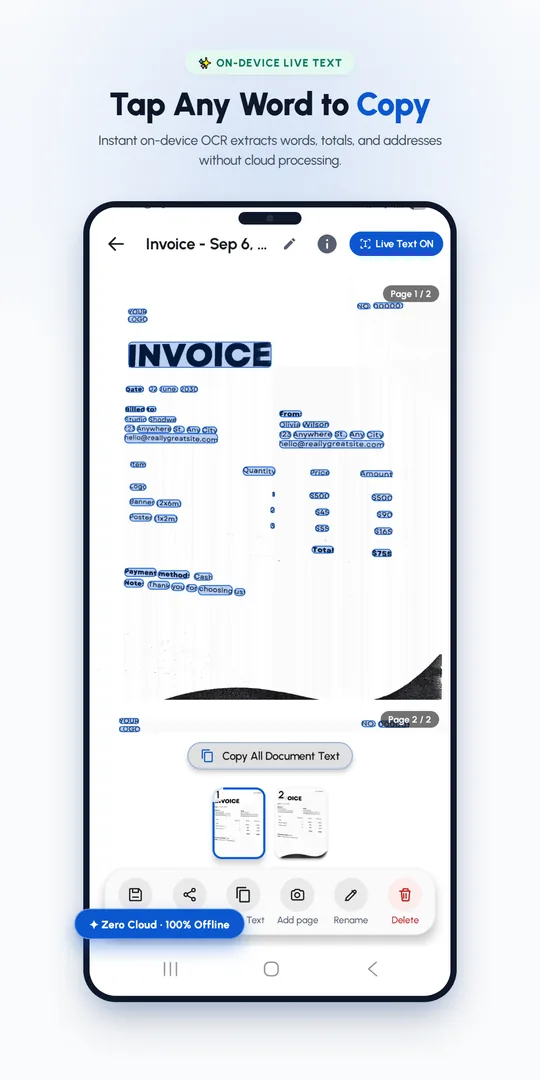
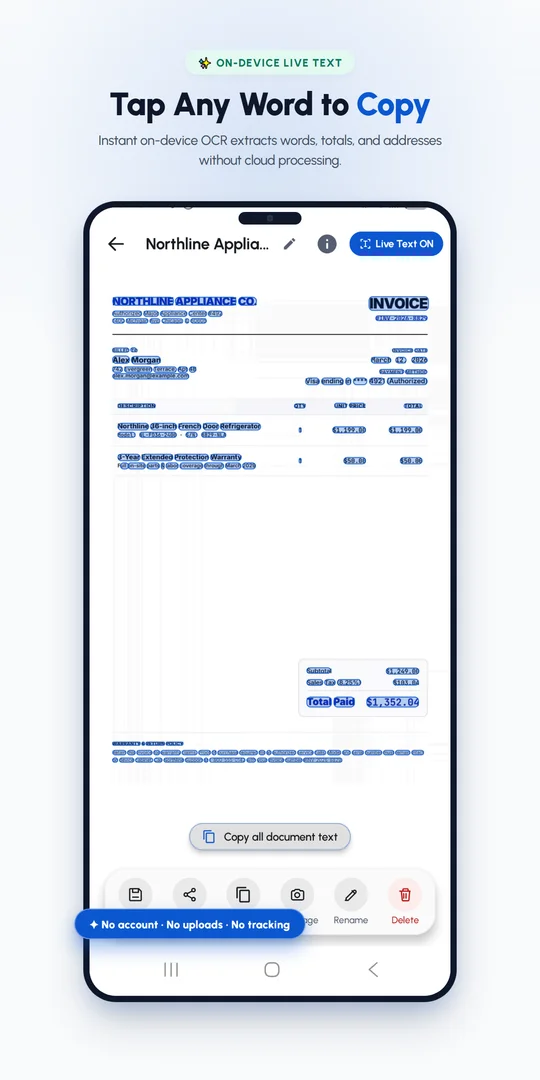
Sync official Play Store screenshots with watermark protection and search results

diff --git a/docket/index.html b/docket/index.html
@@ -68,7 +68,8 @@
           "https://apps.rapidops.io/docket/screenshots/04_smart_organization.png",
           "https://apps.rapidops.io/docket/screenshots/05_encrypted_backup.png",
           "https://apps.rapidops.io/docket/screenshots/06_lifetime_pricing.png",
-          "https://apps.rapidops.io/docket/screenshots/07_pdf_export.png"
+          "https://apps.rapidops.io/docket/screenshots/07_document_watermark.png",
+          "https://apps.rapidops.io/docket/screenshots/08_sign_document.png"
         ],
         "softwareVersion": "1.1.0",
         "fileSize": "25MB",
@@ -959,11 +960,11 @@ body {
         <!-- Slide 3 -->
         <a href="screenshots/03_fulltext_search.png?v=1.1.0" target="_blank" class="group block bg-white dark:bg-[#121626] rounded-2xl p-2.5 border border-slate-200/80 dark:border-white/10 hover:border-brand/50 shadow-card-light dark:shadow-none transition-all transform hover:-translate-y-1">
           <div class="overflow-hidden rounded-xl bg-slate-900 aspect-[1/2] relative">
-            <img src="screenshots/03_fulltext_search_thumb.webp?v=1.1.0" decoding="async" alt="Docket Instant In-Document Full-Text Search" width="1080" height="2160" loading="lazy" class="w-full h-full object-cover group-hover:scale-105 transition-transform duration-300" />
+            <img src="screenshots/03_fulltext_search_thumb.webp?v=1.1.0" decoding="async" alt="Docket Instant In-Document Full-Text Search and Live Results" width="1080" height="2160" loading="lazy" class="w-full h-full object-cover group-hover:scale-105 transition-transform duration-300" />
           </div>
           <div class="mt-2 px-1 text-center">
-            <div class="text-[11px] font-black text-slate-900 dark:text-white truncate">#3 Fast Search</div>
-            <div class="text-[9px] font-semibold text-brand">In-Doc OCR Match</div>
+            <div class="text-[11px] font-black text-slate-900 dark:text-white truncate">#3 Search & Results</div>
+            <div class="text-[9px] font-semibold text-brand">Live Query Matches</div>
           </div>
         </a>
 
@@ -1001,13 +1002,13 @@ body {
         </a>
 
         <!-- Slide 7 -->
-        <a href="screenshots/07_pdf_export.png?v=1.1.0" target="_blank" class="group block bg-white dark:bg-[#121626] rounded-2xl p-2.5 border border-slate-200/80 dark:border-white/10 hover:border-brand/50 shadow-card-light dark:shadow-none transition-all transform hover:-translate-y-1">
+        <a href="screenshots/07_document_watermark.png?v=1.1.0" target="_blank" class="group block bg-white dark:bg-[#121626] rounded-2xl p-2.5 border border-slate-200/80 dark:border-white/10 hover:border-brand/50 shadow-card-light dark:shadow-none transition-all transform hover:-translate-y-1">
           <div class="overflow-hidden rounded-xl bg-slate-900 aspect-[1/2] relative">
-            <img src="screenshots/07_pdf_export_thumb.webp?v=1.1.0" decoding="async" alt="Docket Searchable PDF Export Sheet" width="1080" height="2160" loading="lazy" class="w-full h-full object-cover group-hover:scale-105 transition-transform duration-300" />
+            <img src="screenshots/07_document_watermark_thumb.webp?v=1.1.0" decoding="async" alt="Docket Document Watermark Protection" width="1080" height="2160" loading="lazy" class="w-full h-full object-cover group-hover:scale-105 transition-transform duration-300" />
           </div>
           <div class="mt-2 px-1 text-center">
-            <div class="text-[11px] font-black text-slate-900 dark:text-white truncate">#7 PDF Export</div>
-            <div class="text-[9px] font-semibold text-brand">Searchable Layer</div>
+            <div class="text-[11px] font-black text-slate-900 dark:text-white truncate">#7 Watermark</div>
+            <div class="text-[9px] font-semibold text-purple-400">Confidential Stamp</div>
           </div>
         </a>
 

diff --git a/index.html b/index.html
@@ -398,11 +398,11 @@ body { font-family: 'Urbanist', sans-serif; }
         <!-- Slide 3 -->
         <a href="docket/screenshots/03_fulltext_search.png?v=1.1.0" target="_blank" class="group block bg-white dark:bg-[#151924] rounded-2xl p-2.5 border border-slate-200 dark:border-white/10 hover:border-brand/50 shadow-sm transition-all transform hover:-translate-y-1">
           <div class="overflow-hidden rounded-xl bg-slate-900 aspect-[1/2] relative">
-            <img src="docket/screenshots/03_fulltext_search_thumb.webp?v=1.1.0" decoding="async" alt="Docket Instant In-Document Full-Text Search" width="1080" height="2160" loading="lazy" class="w-full h-full object-cover group-hover:scale-105 transition-transform duration-300" />
+            <img src="docket/screenshots/03_fulltext_search_thumb.webp?v=1.1.0" decoding="async" alt="Docket In-Document Full-Text Search and Instant Results" width="1080" height="2160" loading="lazy" class="w-full h-full object-cover group-hover:scale-105 transition-transform duration-300" />
           </div>
           <div class="mt-2 px-1 text-center">
-            <div class="text-[11px] font-black text-slate-900 dark:text-white truncate">#3 Fast Search</div>
-            <div class="text-[9px] font-semibold text-brand">Keyword Match</div>
+            <div class="text-[11px] font-black text-slate-900 dark:text-white truncate">#3 Search & Results</div>
+            <div class="text-[9px] font-semibold text-brand">Live Query Matches</div>
           </div>
         </a>
 
@@ -440,13 +440,13 @@ body { font-family: 'Urbanist', sans-serif; }
         </a>
 
         <!-- Slide 7 -->
-        <a href="docket/screenshots/07_pdf_export.png?v=1.1.0" target="_blank" class="group block bg-white dark:bg-[#151924] rounded-2xl p-2.5 border border-slate-200 dark:border-white/10 hover:border-brand/50 shadow-sm transition-all transform hover:-translate-y-1">
+        <a href="docket/screenshots/07_document_watermark.png?v=1.1.0" target="_blank" class="group block bg-white dark:bg-[#151924] rounded-2xl p-2.5 border border-slate-200 dark:border-white/10 hover:border-brand/50 shadow-sm transition-all transform hover:-translate-y-1">
           <div class="overflow-hidden rounded-xl bg-slate-900 aspect-[1/2] relative">
-            <img src="docket/screenshots/07_pdf_export_thumb.webp?v=1.1.0" decoding="async" alt="Docket Searchable PDF Export Sheet" width="1080" height="2160" loading="lazy" class="w-full h-full object-cover group-hover:scale-105 transition-transform duration-300" />
+            <img src="docket/screenshots/07_document_watermark_thumb.webp?v=1.1.0" decoding="async" alt="Docket Document Watermark Protection" width="1080" height="2160" loading="lazy" class="w-full h-full object-cover group-hover:scale-105 transition-transform duration-300" />
           </div>
           <div class="mt-2 px-1 text-center">
-            <div class="text-[11px] font-black text-slate-900 dark:text-white truncate">#7 PDF Export</div>
-            <div class="text-[9px] font-semibold text-brand">Searchable Layer</div>
+            <div class="text-[11px] font-black text-slate-900 dark:text-white truncate">#7 Watermark</div>
+            <div class="text-[9px] font-semibold text-brand">Confidential Stamp</div>
           </div>
         </a>
 

diff --git a/docket/screenshots/index.html b/docket/screenshots/index.html
@@ -72,11 +72,11 @@
       <!-- Slide 3 -->
       <div class="bg-[#1E293B] rounded-3xl p-4 border border-white/10 flex flex-col justify-between hover:border-[#0B57D0]/50 transition-all">
         <div class="mb-3">
-          <span class="text-xs font-bold text-[#C084FC]">#3 · INSTANT SEARCH</span>
-          <h3 class="text-sm font-bold text-white truncate">Find Anything Instantly</h3>
+          <span class="text-xs font-bold text-[#C084FC]">#3 · SEARCH & RESULTS</span>
+          <h3 class="text-sm font-bold text-white truncate">Search & Find Instantly</h3>
         </div>
         <a href="03_fulltext_search.png?v=1.1.0" target="_blank" class="block group overflow-hidden rounded-2xl border border-white/10 bg-slate-900">
-          <img src="03_fulltext_search.png?v=1.1.0" alt="Find Anything Instantly" class="w-full h-auto group-hover:scale-105 transition-transform duration-300" />
+          <img src="03_fulltext_search.png?v=1.1.0" alt="Search & Find Instantly" class="w-full h-auto group-hover:scale-105 transition-transform duration-300" />
         </a>
         <a href="03_fulltext_search.png?v=1.1.0" download class="mt-3 block w-full py-2.5 rounded-xl bg-[#0B57D0] hover:bg-[#0842A0] text-center text-xs font-bold transition-colors">
           Download 1080×2160
@@ -128,13 +128,13 @@
       <!-- Slide 7 -->
       <div class="bg-[#1E293B] rounded-3xl p-4 border border-white/10 flex flex-col justify-between hover:border-[#0B57D0]/50 transition-all">
         <div class="mb-3">
-          <span class="text-xs font-bold text-[#60A5FA]">#7 · SHARING & EXPORT</span>
-          <h3 class="text-sm font-bold text-white truncate">Export Searchable PDFs</h3>
+          <span class="text-xs font-bold text-[#A78BFA]">#7 · WATERMARK PROTECTION</span>
+          <h3 class="text-sm font-bold text-white truncate">Watermark Every Page</h3>
         </div>
-        <a href="07_pdf_export.png?v=1.1.0" target="_blank" class="block group overflow-hidden rounded-2xl border border-white/10 bg-slate-900">
-          <img src="07_pdf_export.png?v=1.1.0" alt="Export Searchable PDFs" class="w-full h-auto group-hover:scale-105 transition-transform duration-300" />
+        <a href="07_document_watermark.png?v=1.1.0" target="_blank" class="block group overflow-hidden rounded-2xl border border-white/10 bg-slate-900">
+          <img src="07_document_watermark.png?v=1.1.0" alt="Watermark Every Page" class="w-full h-auto group-hover:scale-105 transition-transform duration-300" />
         </a>
-        <a href="07_pdf_export.png?v=1.1.0" download class="mt-3 block w-full py-2.5 rounded-xl bg-[#0B57D0] hover:bg-[#0842A0] text-center text-xs font-bold transition-colors">
+        <a href="07_document_watermark.png?v=1.1.0" download class="mt-3 block w-full py-2.5 rounded-xl bg-[#0B57D0] hover:bg-[#0842A0] text-center text-xs font-bold transition-colors">
           Download 1080×2160
         </a>
       </div>

diff --git a/docket/screenshots/07_document_watermark.html b/docket/screenshots/07_document_watermark.html
@@ -154,11 +154,11 @@ body {
   <div class="bg-radial"></div>
 
   <div class="header-container">
-    <div class="badge" style="background: #E8DEF8; color: #4A4458;">
-      🔍 SEARCH & INSTANT RESULTS
+    <div class="badge" style="background: #EDE9FE; color: #5B21B6;">
+      🛡 WATERMARK PROTECTION
     </div>
-    <h1 class="headline">Search & Find <span class='accent'>Instantly</span></h1>
-    <p class="subhead">Full-text indexing searches through every word inside your documents with live highlighted OCR results.</p>
+    <h1 class="headline">Watermark Every <span class='accent'>Page</span></h1>
+    <p class="subhead">Stamp CONFIDENTIAL, DRAFT, or custom text across your documents and exports — watermarking is part of Premium.</p>
   </div>
 
   <div class="phone-wrapper">
@@ -167,11 +167,11 @@ body {
         <div class="camera-hole"></div>
       </div>
       <div class="phone-screen">
-        <img src="file:///E:/Docket/device_screenshots/real_docket_search_clean.png" class="screen-capture" style="margin-top: -40px;" />
+        <img src="file:///E:/Docket/device_screenshots/real_docket_watermark.png" class="screen-capture" style="margin-top: -40px;" />
       </div>
     </div>
-    <div class="floating-pill" style="bottom: 700px; right: -20px;">
-      ✦ Search & Highlighted Matches
+    <div class="floating-pill" style="bottom: 700px; left: -25px;">
+      ✦ Diagonal Watermark Stamp
     </div>
   </div>
 </body>

diff --git a/docket/screenshots/generate_real_playstore_screenshots.py b/docket/screenshots/generate_real_playstore_screenshots.py
@@ -12,11 +12,16 @@ SLIDES = [
         "badge_color": "#D3E3FD",
         "badge_text": "#041E49",
         "headline": "Scan Paper in <span class='accent'>Seconds</span>",
-        "subhead": "Auto-detects edges, corrects perspective, and eliminates harsh shadows in real-time.",
+        # "in real-time" was wrong: edge detection is live in the viewfinder, but ML Kit's
+        # shadow/stain cleaning pass (SCANNER_MODE_FULL) runs after capture, not on the preview.
+        "subhead": "Auto-detects edges, corrects perspective, and clears harsh shadows on every capture.",
+        # A real viewfinder frame with a document under the lens and the edge-detection quad
+        # locked on. Captured by sampling until the preview surface actually composites into
+        # screencap — it comes back black most attempts.
         "image": os.path.join(DEVICE_DIR, "real_docket_camera_scanner.png"),
         "img_offset_y": "0px",
         "callout_text": "✦ On-Device Edge Detection",
-        "callout_pos": "bottom: 120px; right: -30px;"
+        "callout_pos": "bottom: 780px; right: -30px;"
     },
     {
         "id": "02_livetext_ocr",
@@ -27,20 +32,24 @@ SLIDES = [
         "subhead": "Instant on-device OCR extracts words, totals, and addresses without cloud processing.",
         "image": os.path.join(DEVICE_DIR, "real_docket_livetext.png"),
         "img_offset_y": "-40px",
-        "callout_text": "✦ Zero Cloud · 100% Offline",
+        # Was "Zero Cloud · 100% Offline". Not defensible: the merged manifest carries INTERNET
+        # via ML Kit and Play Billing, the extra OCR script packs are ~25MB downloads, and
+        # billing needs the network. This is the app's own account_tagline, which is both true
+        # and the line the in-app privacy page is already written to support.
+        "callout_text": "✦ No account · No uploads · No tracking",
         "callout_pos": "bottom: 140px; left: -20px;"
     },
     {
         "id": "03_fulltext_search",
-        "badge": "🔍 BLISTERING-FAST SEARCH",
+        "badge": "🔍 SEARCH & INSTANT RESULTS",
         "badge_color": "#E8DEF8",
         "badge_text": "#4A4458",
-        "headline": "Find Anything <span class='accent'>Instantly</span>",
-        "subhead": "Full-text indexing searches through every word inside your documents in milliseconds.",
+        "headline": "Search & Find <span class='accent'>Instantly</span>",
+        "subhead": "Full-text indexing searches through every word inside your documents with live highlighted OCR results.",
         "image": os.path.join(DEVICE_DIR, "real_docket_search_clean.png"),
         "img_offset_y": "-40px",
-        "callout_text": "✦ Searches OCR Text",
-        "callout_pos": "bottom: 140px; right: -20px;"
+        "callout_text": "✦ Search & Highlighted Matches",
+        "callout_pos": "bottom: 700px; right: -20px;"
     },
     {
         "id": "04_smart_organization",
@@ -48,10 +57,17 @@ SLIDES = [
         "badge_color": "#D3E3FD",
         "badge_text": "#041E49",
         "headline": "Your Documents, <span class='accent'>Organized</span>",
-        "subhead": "Two-column folder grid, category filter chips, and high-contrast visual thumbnails.",
+        # Was "PDF and image filters". Those format chips are gone from the library in the
+        # current layout -- filtering by format now lives in search results, not here -- so the
+        # line described controls this very screenshot does not show. What it does show is
+        # folders with counts, the list/grid toggle and the sort control.
+        "subhead": "Custom folders with live counts, list or grid, and sort by date, name or size.",
         "image": os.path.join(DEVICE_DIR, "real_docket_library_with_folders.png"),
         "img_offset_y": "-40px",
-        "callout_text": "✦ 2-Column Folders & Tags",
+        # Docket has no tags. There is no tag entity, DAO or string anywhere in the app -- the
+        # Room schema is Document, DocumentPage, Folder, PageOcr, PageOcrFts, ScanPage,
+        # ScanSession, AnalyticsEvent. Advertising one was a listing misrepresentation.
+        "callout_text": "✦ Folders, Grid & Sort",
         "callout_pos": "bottom: 130px; left: -20px;"
     },
     {
@@ -59,8 +75,12 @@ SLIDES = [
         "badge": "🔒 ZERO-KNOWLEDGE BACKUP",
         "badge_color": "#FEE2E2",
         "badge_text": "#991B1B",
-        "headline": "100% Private. <span class='accent'>Zero Cloud.</span>",
-        "subhead": "Passphrase-encrypted backups stay on your device or go wherever you choose.",
+        # Was "100% Private. Zero Cloud." -- and on the backup slide of all places, where the
+        # app's own copy invites you to save the file to "your own Drive". The honest claim is
+        # the one the app makes: the archive is encrypted with a passphrase Docket never sees,
+        # so the destination does not matter.
+        "headline": "Backups Only <span class='accent'>You</span> Can Open",
+        "subhead": "Encrypted with a passphrase Docket never sees and cannot recover. You choose where the file goes.",
         "image": os.path.join(DEVICE_DIR, "real_docket_backup.png"),
         "img_offset_y": "-40px",
         "callout_text": "✦ AES-256 Passphrase Security",
@@ -73,22 +93,41 @@ SLIDES = [
         "badge_text": "#92400E",
         "headline": "One Purchase. <span class='accent'>Forever.</span>",
         "subhead": "No monthly subscriptions, no recurring fees. Core features free offline forever.",
-        "image": os.path.join(os.path.dirname(__file__), "device_unlock_usd.png"),
+        "image": os.path.join(DEVICE_DIR, "real_docket_unlock.png"),
         "img_offset_y": "-40px",
         "callout_text": "✦ Lifetime Ownership",
         "callout_pos": "bottom: 140px; left: -20px;"
     },
     {
-        "id": "07_pdf_export",
-        "badge": "📄 SEAMLESS SHARING",
-        "badge_color": "#D3E3FD",
-        "badge_text": "#041E49",
-        "headline": "Export Searchable <span class='accent'>PDFs</span>",
-        "subhead": "Share clean multi-page PDFs directly to Drive, Email, WhatsApp, or Quick Share.",
-        "image": os.path.join(DEVICE_DIR, "real_docket_export_sheet.png"),
+        "id": "07_document_watermark",
+        "badge": "🛡 WATERMARK PROTECTION",
+        "badge_color": "#EDE9FE",
+        "badge_text": "#5B21B6",
+        "headline": "Watermark Every <span class='accent'>Page</span>",
+        "subhead": "Stamp CONFIDENTIAL, DRAFT, or custom text across your documents and exports — watermarking is part of Premium.",
+        "image": os.path.join(DEVICE_DIR, "real_docket_watermark.png"),
         "img_offset_y": "-40px",
-        "callout_text": "✦ Native Android Share Sheet",
-        "callout_pos": "bottom: 140px; right: -20px;"
+        "callout_text": "✦ Diagonal Watermark Stamp",
+        "callout_pos": "bottom: 700px; left: -25px;"
+    },
+    {
+        "id": "08_sign_document",
+        "badge": "✍ SIGN ON THE PAGE",
+        "badge_color": "#E0F2FE",
+        "badge_text": "#075985",
+        "headline": "Sign It Without <span class='accent'>Printing</span>",
+        # Signing is PremiumFeature-gated, so the slide says so rather than selling a paid
+        # feature as if it were free -- the same correction already made on the export slide.
+        # "travels into every PDF and image you export" is literally what PageOverlays does:
+        # both export paths render the signature from the same stored placement the viewer uses.
+        "subhead": "Draw your signature, drag it onto the line, and it is there in Docket and in everything you export — signing is part of Premium.",
+        # A real residential lease from make_sample_docs.py, signed on its Tenant Signature line
+        # through the app's own pad. Not a mockup: the tenant's printed name was blanked in the
+        # sample so there was a genuinely empty line to sign.
+        "image": os.path.join(DEVICE_DIR, "real_docket_signature.png"),
+        "img_offset_y": "-40px",
+        "callout_text": "✦ Drag it into place",
+        "callout_pos": "bottom: 700px; left: -25px;"
     }
 ]
 
@@ -294,4 +333,4 @@ for slide in SLIDES:
     ], check=True)
     print(f"Generated: {png_path}")
 
-print("All 7 Google Play Store screenshots generated successfully!")
+print("All %d Google Play Store screenshots generated successfully!" % len(SLIDES))

diff --git a/docket/screenshots/make_play_2to1.py b/docket/screenshots/make_play_2to1.py
@@ -16,7 +16,12 @@ import glob
 import os
 
 TARGET_W, TARGET_H = 1080, 2160
-SKIP = ('feature_graphic', 'store_icon', 'play_store_qr', 'device_')
+# Anything in this folder that is not a phone screenshot. The glob is indiscriminate and the
+# resize is destructive and in-place, so a non-screenshot that is not listed here gets silently
+# stretched to 1080x2160 and overwritten -- which is exactly what happened to play_store_qr.png
+# on 2026-09-07. A QR stretched 4:1 no longer scans, and the file was untracked, so there was
+# nothing to restore from.
+SKIP = ('feature_graphic', 'store_icon', 'play_store_qr')
 
 for path in sorted(glob.glob(os.path.join(os.path.dirname(__file__), '*.png'))):
     name = os.path.basename(path)

diff --git a/README.md b/README.md
@@ -16,7 +16,7 @@ apps.rapidops.io/
 └── docket/                      # Docket — 100% On-Device Document Scanner
     ├── index.html               # High-conversion product landing page & live UI simulator
     ├── privacy.html             # Standalone, Google Play Store compliant Privacy Policy
-    └── screenshots/             # 7 official 1080×2400 Play Store screenshot assets & gallery
+    └── screenshots/             # 8 official 1080×2160 Play Store screenshot assets & gallery
         ├── index.html           # Interactive web gallery to preview/download all slides
         ├── 01_instant_scanner.png
         ├── 02_livetext_ocr.png
@@ -24,7 +24,8 @@ apps.rapidops.io/
         ├── 04_smart_organization.png
         ├── 05_encrypted_backup.png
         ├── 06_lifetime_pricing.png
-        └── 07_pdf_export.png
+        ├── 07_document_watermark.png
+        └── 08_sign_document.png
 ```
 
 ---
